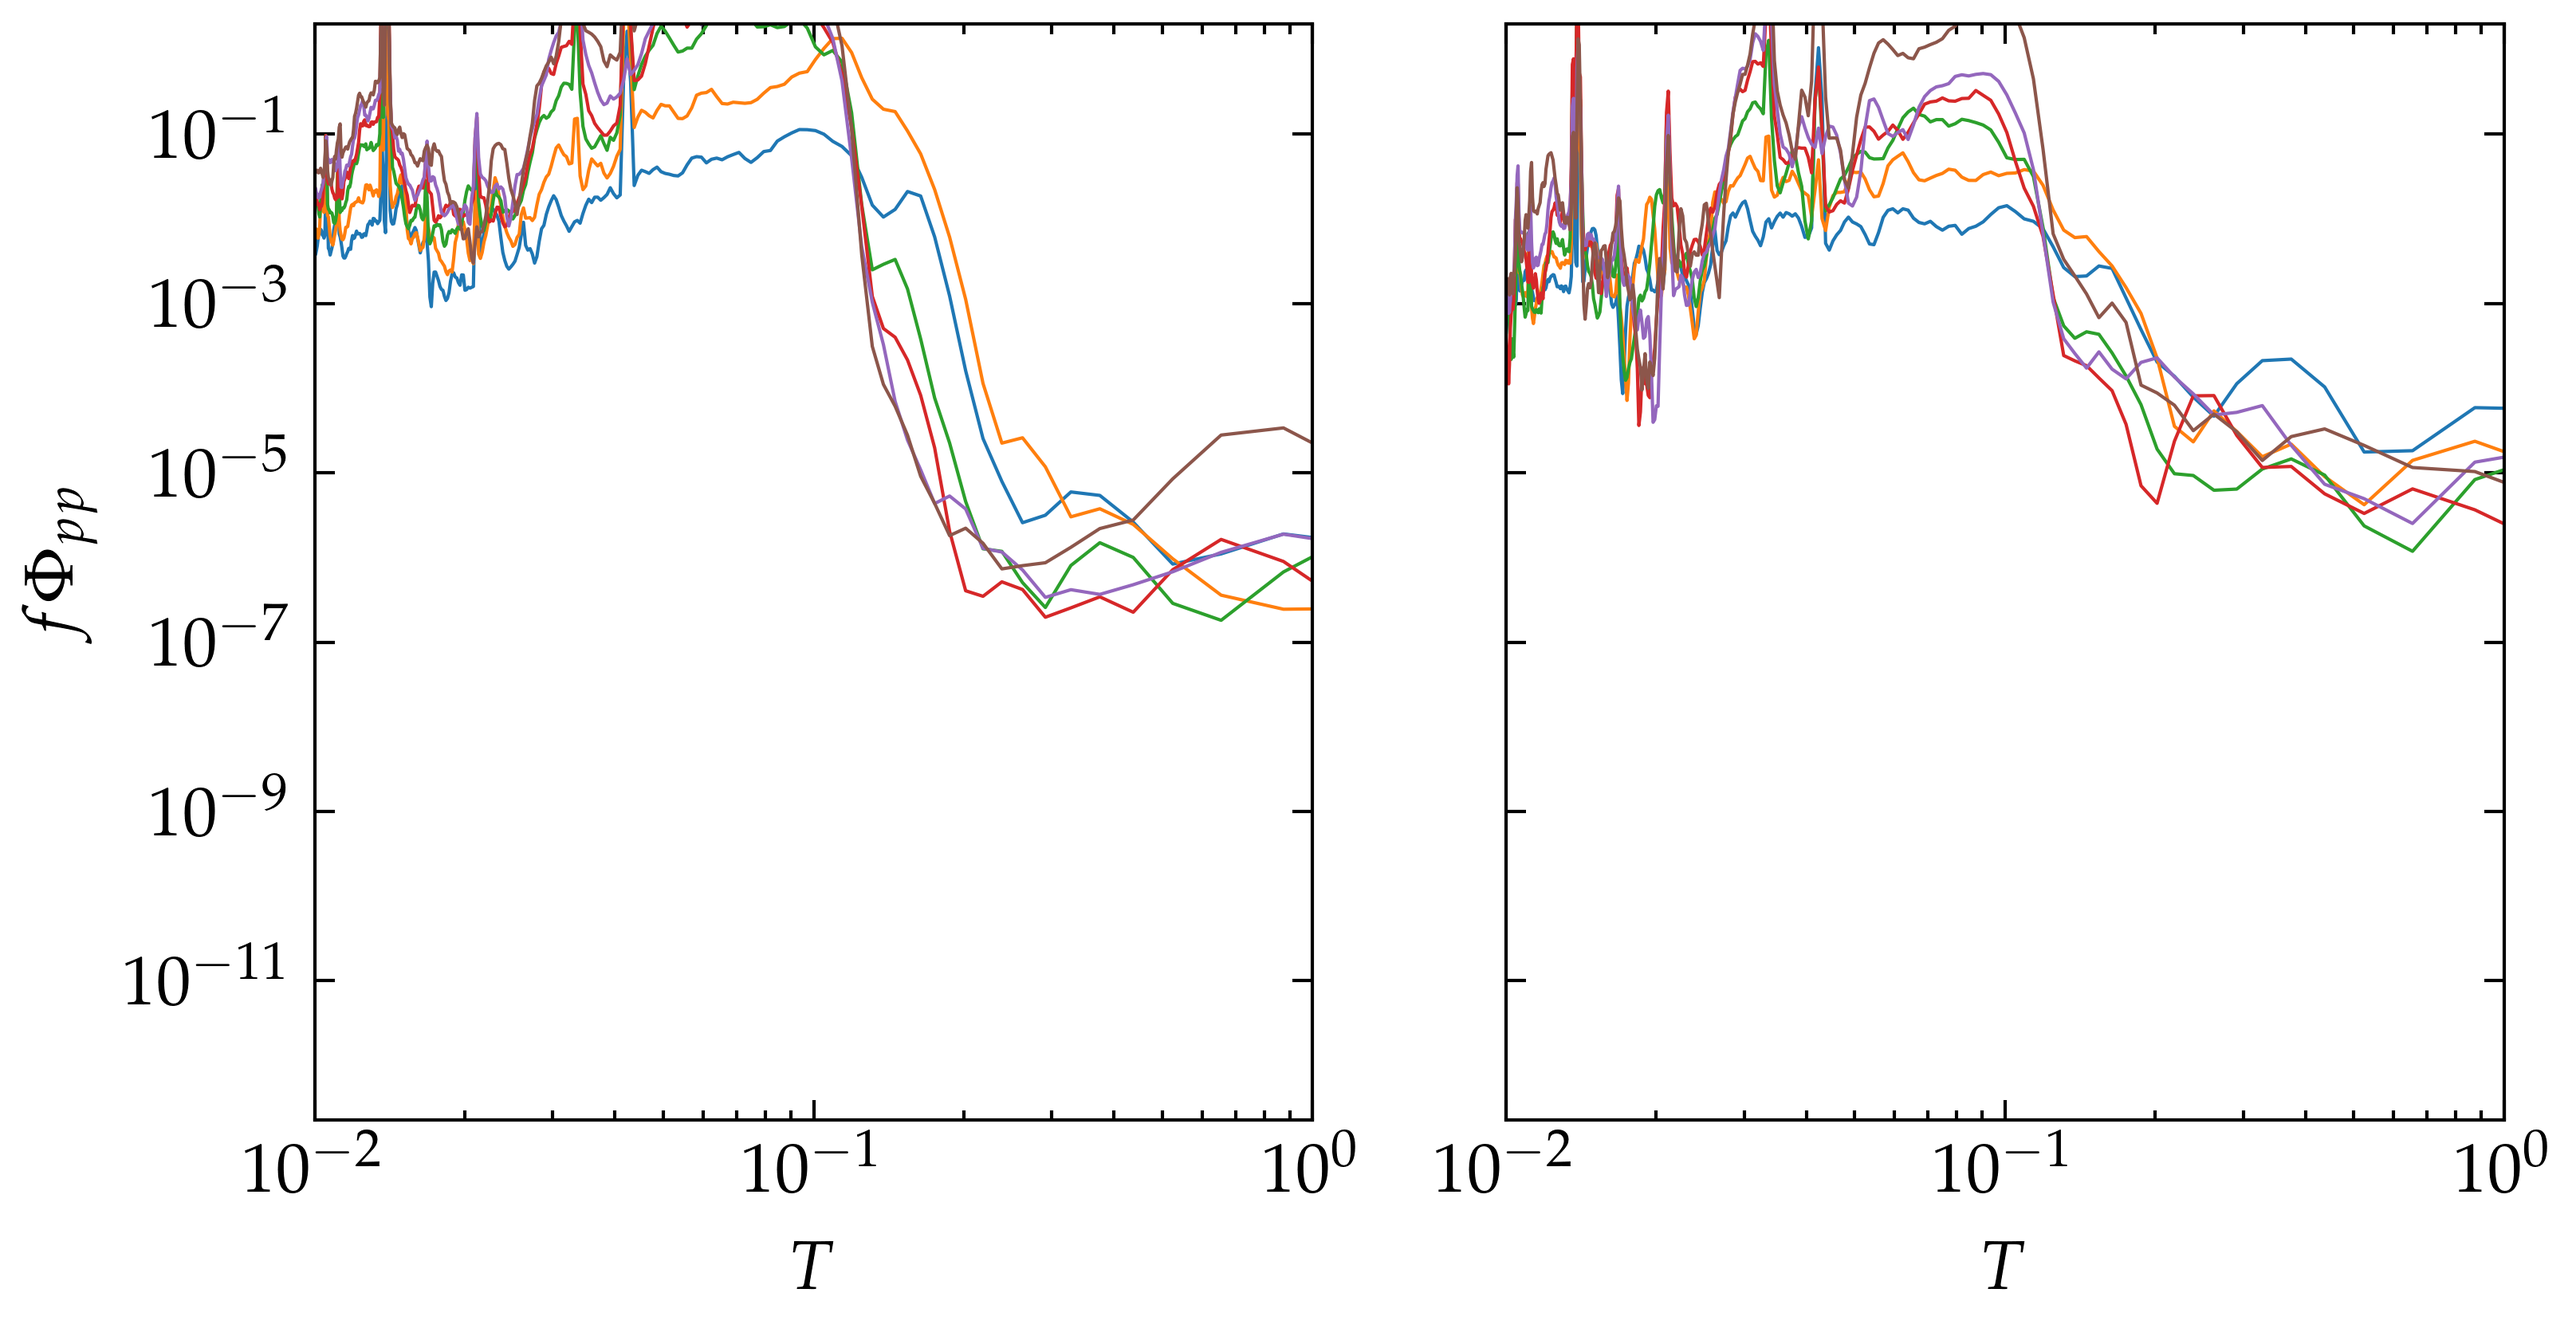
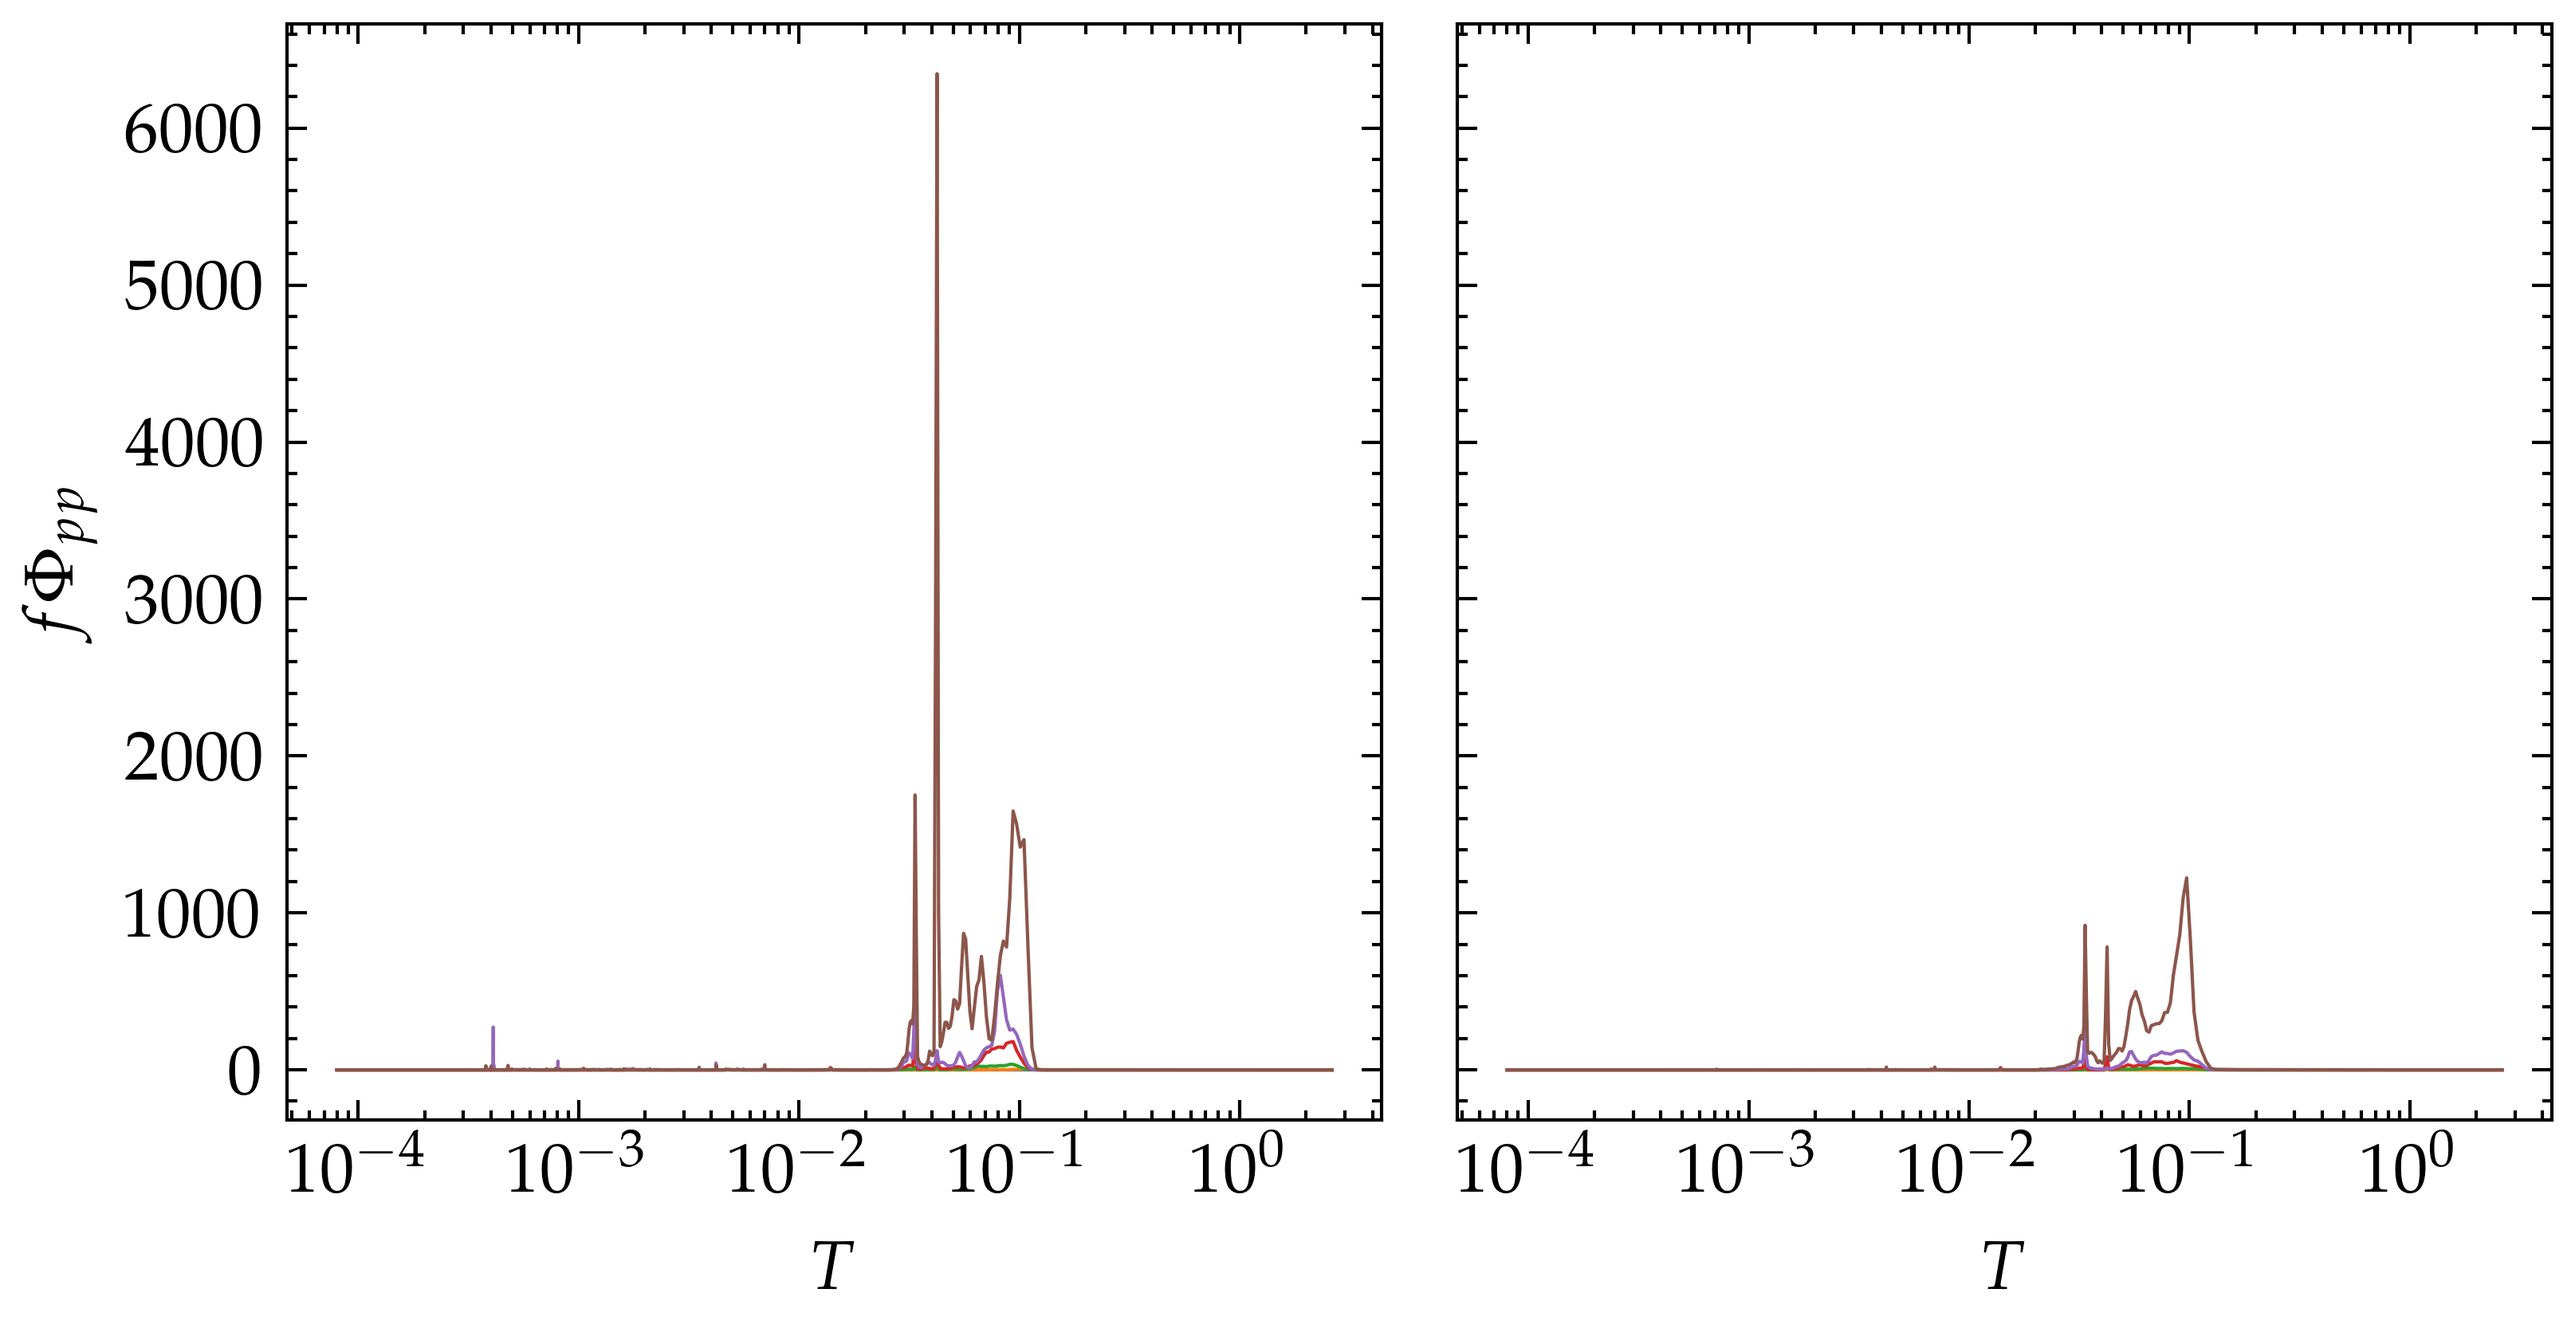
Data is really bad, not what we're expecting at all

diff --git a/src/mic_callibration.py b/src/mic_callibration.py
@@ -15,13 +15,37 @@ from plotting import (
     plot_corrected_trace_PH,
 )
 
+############################
+# Constants & defaults
+############################
+FS = 25_000.0
+NPERSEG = 2**11
+WINDOW = "hann"
+
+
+R = 287.0         # J/kg/K
+T = 293.0         # K (adjust if you have per-case temps)
+P_ATM = 101_325.0 # Pa
+PSI_TO_PA = 6_894.76
+psi_labels = ['atm', '10psi', '30psi', '50psi', '70psi', '100psi']
+Re_taus = np.array([1500, 2500, 3500, 4500, 6000, 8000], dtype=float)
+u_taus  = np.array([0.571, 0.532, 0.492, 0.515, 0.433, 0.481], dtype=float)
+nu_atm  = 1.5e-5  # m^2/s
+
+
+def inner_scales(Re_taus, u_taus, nu_atm):
+    """Return delta (from the atm case) and nu for each case via Re_tau relation."""
+    Re_taus = np.asarray(Re_taus, dtype=float)
+    u_taus = np.asarray(u_taus, dtype=float)
+    delta = Re_taus[0] * nu_atm / u_taus[0]
+    nus = delta * u_taus / Re_taus
+    return float(delta), nus
+
 
 def estimate_frf(
     x: np.ndarray,
     y: np.ndarray,
     fs: float,
-    nperseg: int = 2**16,
-    noverlap: int = 2**15,
     window: str = "hann",
     detrend: str = "constant",
 ):
@@ -35,10 +59,10 @@ def estimate_frf(
     """
     x = np.asarray(x, float)
     y = np.asarray(y, float)
-    nseg = int(min(nperseg, x.size, y.size))
+    nseg = int(min(NPERSEG, x.size, y.size))
     if nseg < 8:
         raise ValueError(f"Signal too short for FRF: n={min(x.size, y.size)}")
-    nov = int(min(noverlap, nseg // 2))
+    nov = int(min(NPERSEG/2, nseg // 2))
     w = get_window(window, nseg, fftbins=True)
 
     f, Sxx = welch(x, fs=fs, window=w, nperseg=nseg, noverlap=nov, detrend=detrend)
@@ -235,6 +259,7 @@ def real_data():
     os.makedirs(OUTPUT_DIR, exist_ok=True)
     PH_path = "figures/PH-NKD"
     NC_path = "figures/NC-NKD"
+    NKD_path = "figures/S1-S2"
 
     freqs = []
     Pyys = []
@@ -243,29 +268,33 @@ def real_data():
         ic(f"Processing {psi[idx]}...")
 
         # Load data
-        x_r, y_r = load_mat(fn_sweep[idx])
+        x_r, y_r = load_mat(fn_sweep[idx]) # s1 mic is naked, so no need to correct NKD1 to NKD2
         ###
         # Correct NC (invert NC→NKD mapping to bring NC into NKD domain)
         H_NC = np.load(f"{NC_path}/H_{psi[idx]}.npy")
         gamma2_NC = np.load(f"{NC_path}/gamma2_{psi[idx]}.npy")
         f_NC = np.load(f"{NC_path}/f_{psi[idx]}.npy")
         fs = 25000.0
-        x = wiener_inverse(y_r, fs, f_NC, H_NC, gamma2_NC)
+        y = wiener_inverse(y_r, fs, f_NC, H_NC, gamma2_NC)
         # Plot corrected NC
-        f, Pxx = compute_spec(fs, x)
+        # f, Pxx = compute_spec(fs, y)
         # plot_spectrum(f, f*Pxx, f"{OUTPUT_DIR}/Pxx_{psi[idx]}_corr")
         ###
-        # Correct PH
+        # Correct PH (invert PH→NKD mapping to bring PH into NKD domain) # NKD mic is S2 mic, so we need to correct NKD2 to NKD1 first
         H_PH = np.load(f"{PH_path}/H_{psi[idx]}.npy")
         gamma2_PH = np.load(f"{PH_path}/gamma2_{psi[idx]}.npy")
         f_PH = np.load(f"{PH_path}/f_{psi[idx]}.npy")
-        fs = 25000.0
-        y = wiener_inverse(y_r, fs, f_PH, H_PH, gamma2_PH)
+        x_s2 = wiener_inverse(x_r, fs, f_PH, H_PH, gamma2_PH)
+        # This has now been inverted to the equivalend of the NKD-S2 mic, we need to map it to the response of the pristine S1 mic
+        H_NKD = np.load(f"{NKD_path}/H_{psi[idx]}.npy")
+        gamma2_NKD = np.load(f"{NKD_path}/gamma2_{psi[idx]}.npy")
+        f_NKD = np.load(f"{NKD_path}/f_{psi[idx]}.npy")
+        x = wiener_inverse(x_s2, fs, f_NKD, H_NKD, gamma2_NKD)
+        
         # Plot corrected PH
-        f, Pyy = compute_spec(fs, y)
+        f, Pxx = compute_spec(fs, x)
         freqs.append(f)
-        Pyys.append(f*Pyy)
-        ic(Pyy.max())
+        Pyys.append(f*Pxx)
         # plot_spectrum(f, f*Pyy, f"{OUTPUT_DIR}/Pyryr_{psi[idx]}_corr")
         ###
         # TF between NC and PH
@@ -283,7 +312,7 @@ def real_data():
 
 
 if __name__ == "__main__":
-    main_NC()
-    main_NKD()
-    main_PH()
+    # main_NC()
+    # main_NKD()
+    # main_PH()
     real_data()

diff --git a/src/plotting.py b/src/plotting.py
@@ -89,9 +89,9 @@ def plot_spectrum(Ts, spec, spec2, outfile):
         ax1.plot(T, spec[idx], ls='-', lw=0.5, color=colors1[idx])
         ax2.plot(T, spec2[idx], ls='-', lw=0.5, color=colors2[idx])
     ax1.set_xscale("log")
-    ax2.set_yscale("log")
-    ax1.set_xlim(1e-2, 1e0)
-    ax1.set_ylim(0, 2)
+    # ax2.set_yscale("log")
+    # ax1.set_xlim(1e-2, 1e0)
+    # ax1.set_ylim(0, 2)
     ax1.set_xlabel("$T$")
     ax2.set_xlabel("$T$")
     ax1.set_ylabel(r"$f\Phi_{pp}$")
